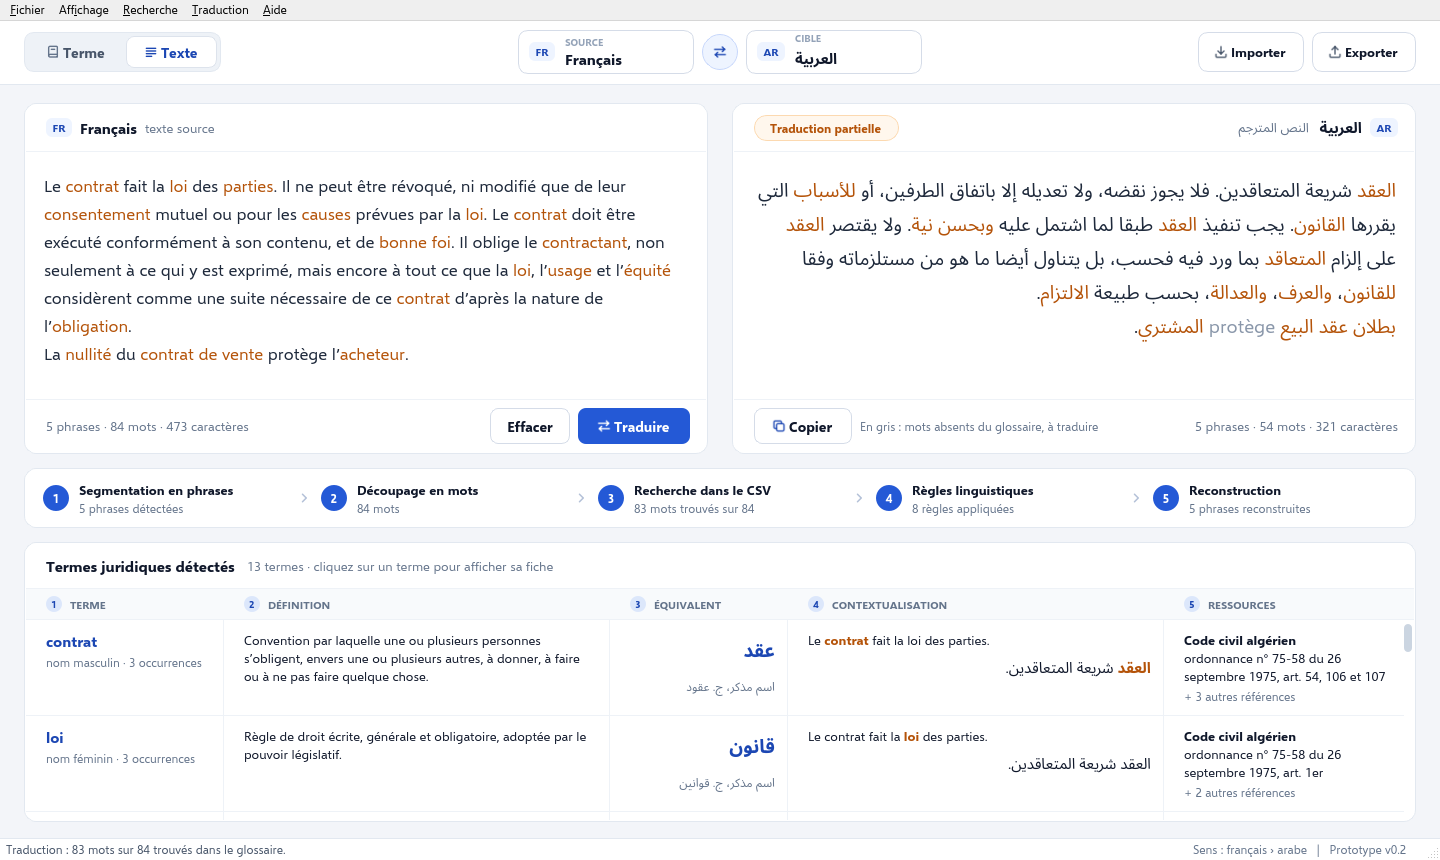
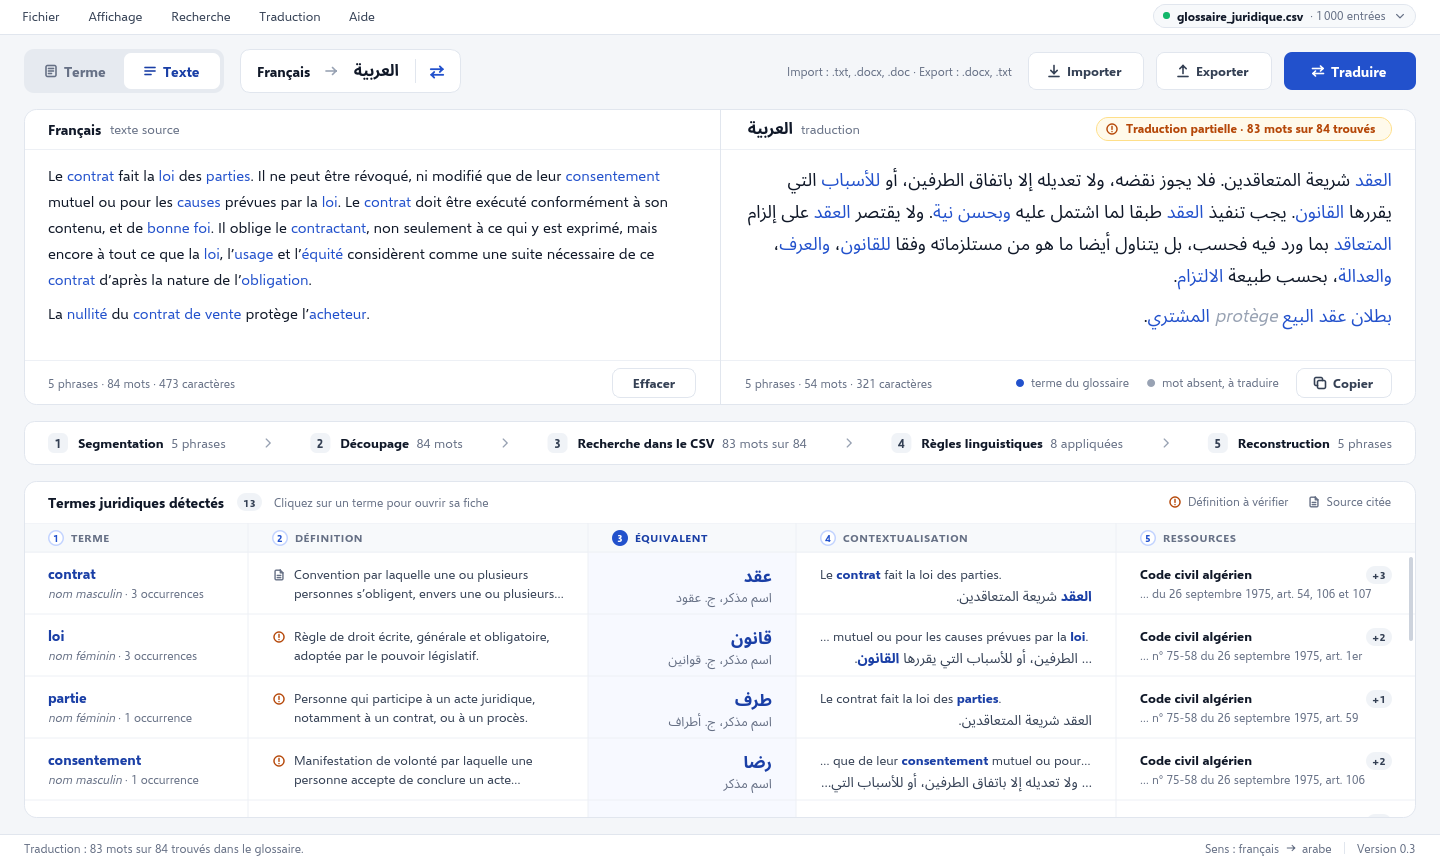
Interface 0.3 : définition sans source signalée « À vérifier », messages des champs vides alignés, captures du README

diff --git a/traducteur/interface/fiche.py b/traducteur/interface/fiche.py
@@ -72,6 +72,8 @@ INTERLIGNE = {FR: 22, AR: 30}
 
 _ADRESSE = regex.compile(r"(?:https?://|www\.)[^\s<>«»]+[^\s<>«».,;:!?)]")
 _A_VERIFIER = "a verifier"
+#: Marge au-dessus du message d'un champ vide, la même dans toutes les colonnes.
+_MARGE_HAUTE_DU_MESSAGE = 20
 
 
 # ====================================================================== fonctions d'affichage
@@ -453,6 +455,8 @@ class Colonne(QObject):
 
     def _vide(self, nom_icone: str, titre: str, texte: str) -> None:
         """Message centré, affiché quand le glossaire ne donne rien pour ce champ."""
+        # Les colonnes n'ont pas la même marge haute : ce complément met leurs messages à la même hauteur.
+        self.disposition.addSpacing(_MARGE_HAUTE_DU_MESSAGE - self.marge_haute)
         self.disposition.addStretch(2)
         self.disposition.addWidget(rond("rondVide", 40, nom_icone, theme.TEXTE_4, 18), 0,
                                    Qt.AlignmentFlag.AlignHCenter)
@@ -577,10 +581,15 @@ class ColonneDefinition(Colonne):
                                           "discret", retour_ligne=True))
         corps.addStretch(1)
 
-        # Pied : la source de la définition, ou la mention « À vérifier ».
-        if not entree.source_definition:
-            return
-        detail = mention_a_verifier(entree.source_definition)
+        # Pied : la source de la définition, ou la mention « À vérifier » (comme dans le tableau
+        # de l'écran « Texte », une définition sans source citée est à vérifier).
+        if entree.source_definition:
+            detail = mention_a_verifier(entree.source_definition)
+            explication = "Cette définition n’est pas reprise d’un texte officiel : vérifiez-la avant de la citer."
+        else:
+            detail = "source non indiquée"
+            explication = ("Le glossaire n’indique pas la source de cette définition : "
+                           "vérifiez-la avant de la citer.")
         mention = QHBoxLayout()
         mention.setSpacing(4)
         if detail is None:
@@ -590,8 +599,7 @@ class ColonneDefinition(Colonne):
         else:
             self.ligne_du_pied.addWidget(icone_fixe("alerte", theme.AMBRE, 16, 1.6))
             a_verifier = etiquette("À vérifier", "piedAlerte")
-            a_verifier.setToolTip(infobulle("Cette définition n’est pas reprise d’un texte officiel : "
-                                            "vérifiez-la avant de la citer."))
+            a_verifier.setToolTip(infobulle(explication))
             mention.addWidget(a_verifier)
             self.source_de_la_definition = EtiquetteCourte("", "pied")
             if detail:

diff --git a/tests/test_interface.py b/tests/test_interface.py
@@ -365,8 +365,9 @@ def test_une_definition_sans_source_est_a_verifier(fenetre, tmp_path):
     assert textes(page.fiche.colonne_definition.corps)[-1] == "Pas de définition en arabe dans le glossaire."
     page.rechercher("vente")
     assert textes(page.fiche.colonne_definition.pied) == ["À vérifier"]
+    # Sans source dans le glossaire, la définition est aussi à vérifier (comme dans le tableau de l'écran « Texte »).
     page.rechercher("prêt")
-    assert textes(page.fiche.colonne_definition.pied) == []
+    assert textes(page.fiche.colonne_definition.pied) == ["À vérifier", "· source non indiquée"]
 
 
 def test_chaque_entree_de_l_exemple_a_une_definition_et_des_ressources(glossaire):
